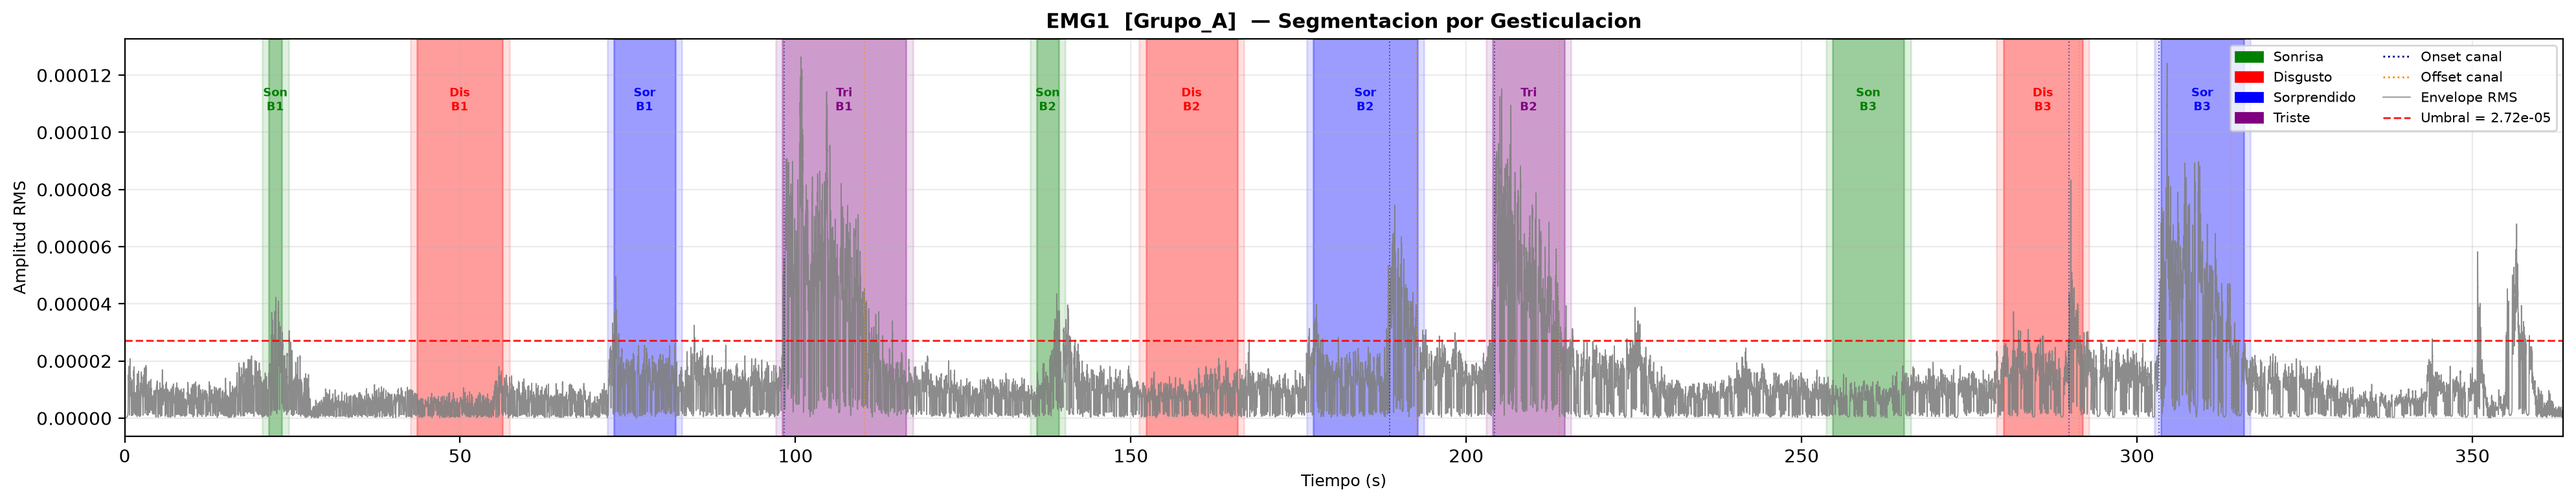
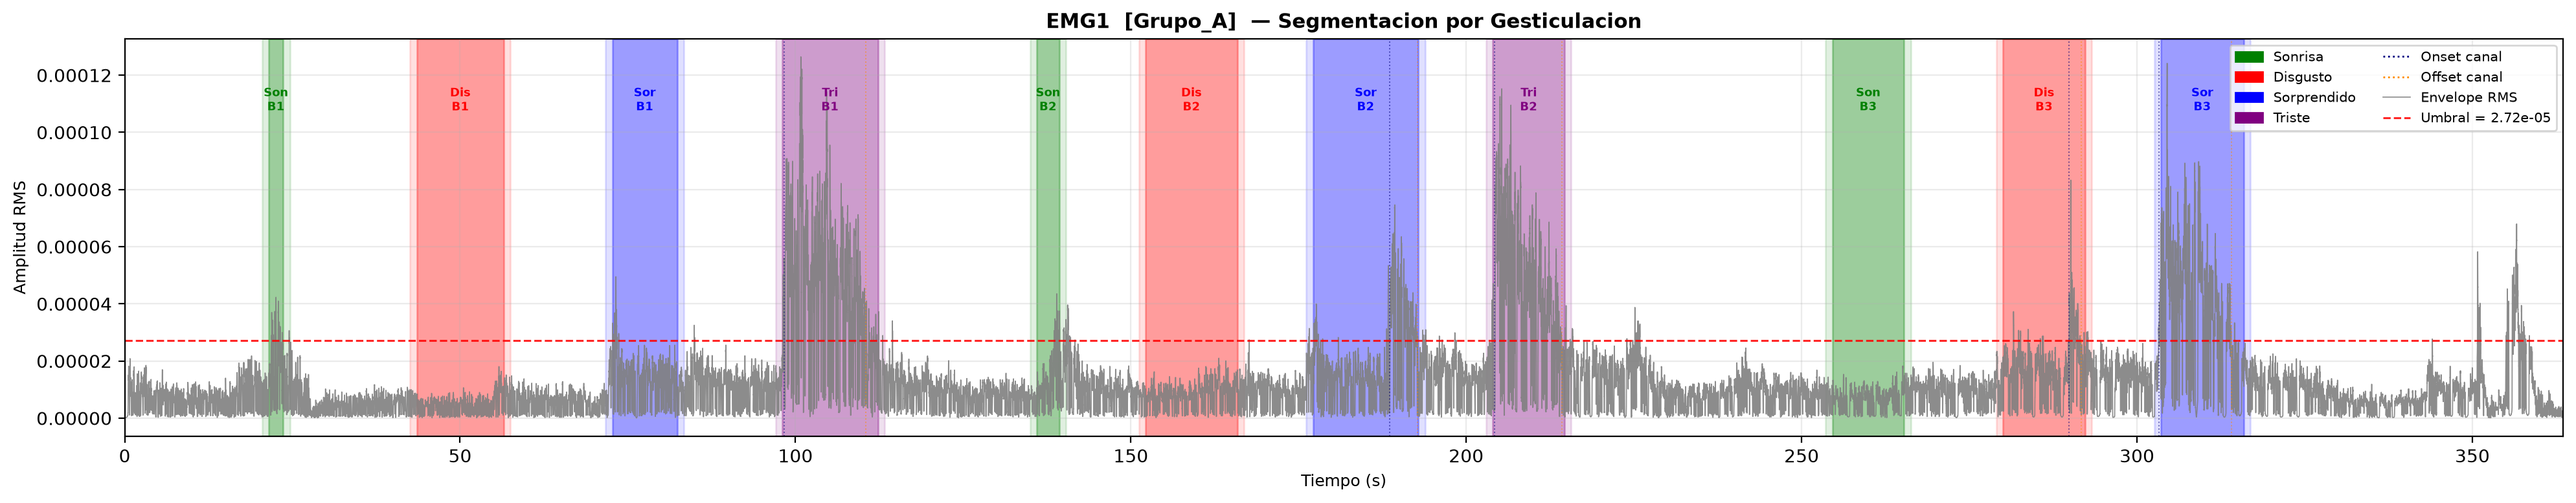
Config

diff --git a/main/run_segmentation.py b/main/run_segmentation.py
@@ -30,7 +30,7 @@ if __name__ == "__main__":
         # Umbral por grupo muscular (k de encendido)
         k_baseline_per_group={
             "Grupo_A": 4.5,
-            "Grupo_B": 5.5,
+            "Grupo_B": 5.0,
         },
         k_baseline=10.0,
 
@@ -40,9 +40,9 @@ if __name__ == "__main__":
         baseline_window_sec=20.0,           # usado solo si use_rolling_baseline=False
 
         # Umbral doble / hysteresis: apagado mas laxo que encendido
-        k_offset_ratio=0.8,
+        k_offset_ratio=0.6,
         k_offset_ratio_per_group={
-            "Grupo_A": 0.8,
+            "Grupo_A": 0.6,
             "Grupo_B": 0.2,
         },
 
